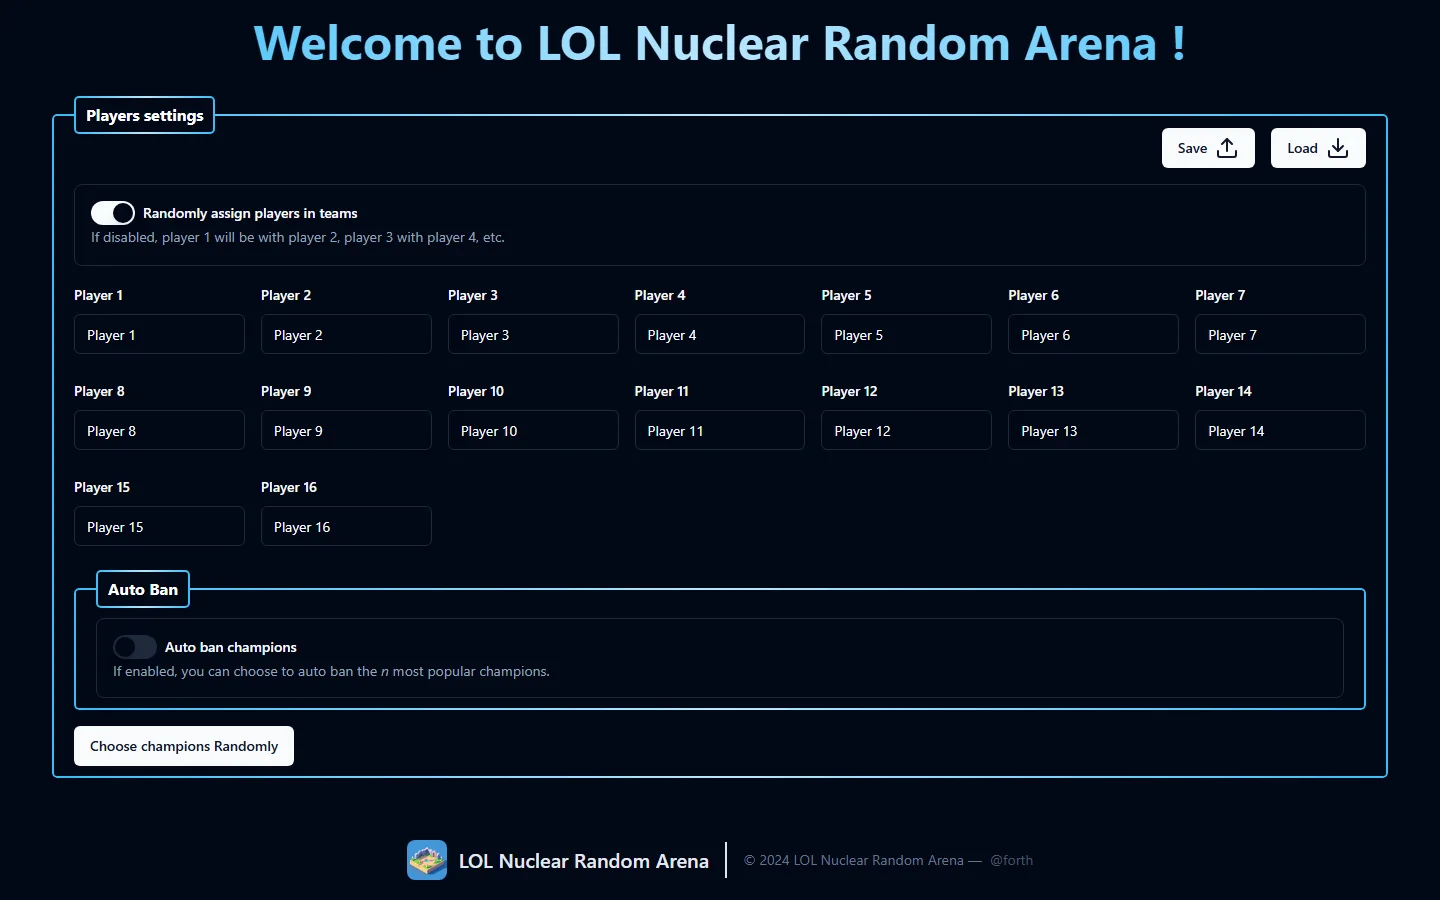
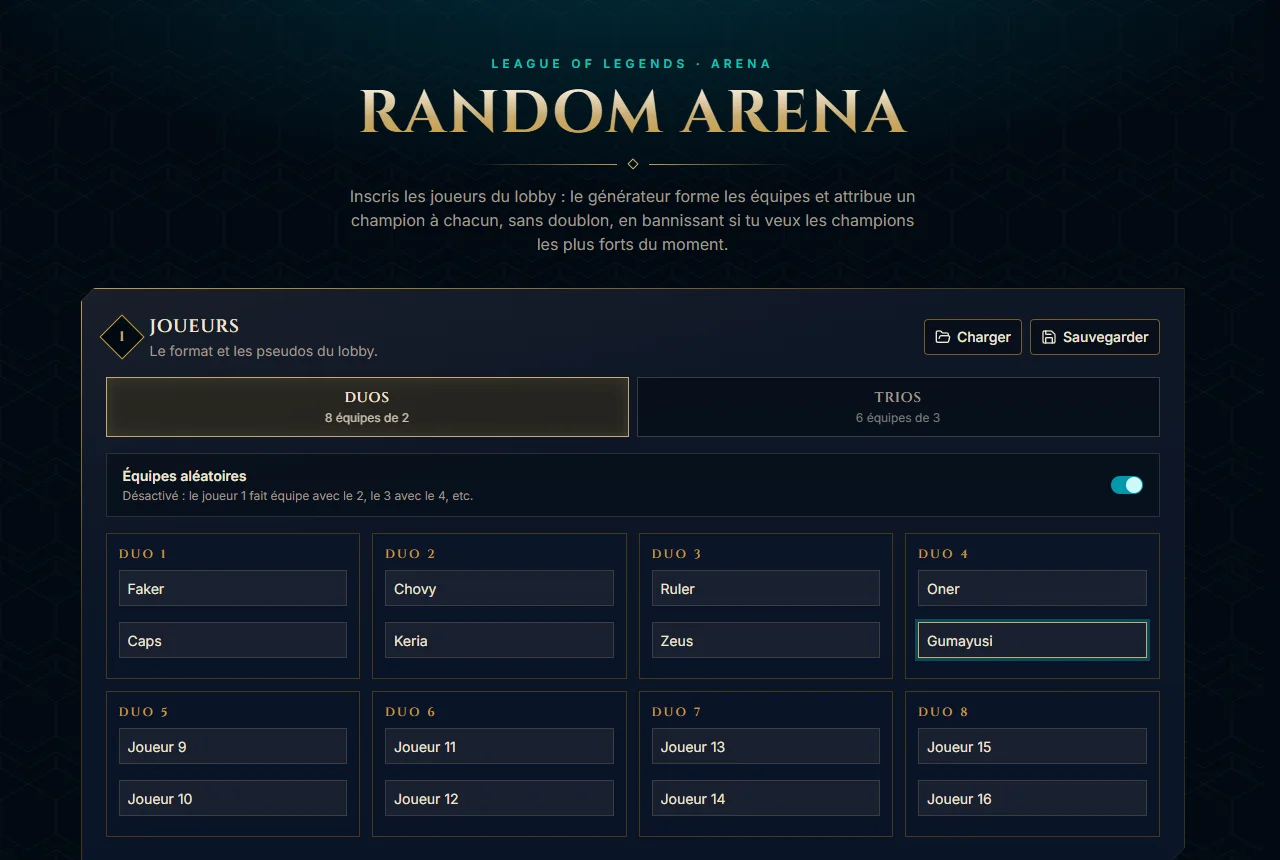
docs: refresh readme and screenshots for the redesign

diff --git a/README.md b/README.md
@@ -1,4 +1,4 @@
-# ⚔ LOL Nuclear Random Arena
+# ⚔ LoL Random Arena
 
 ![License](https://img.shields.io/github/license/forthtilliath/lol-random-arena?style=for-the-badge) [![SvelteKit](https://img.shields.io/badge/SvelteKit-FF3E00?style=for-the-badge&logo=svelte&logoColor=white)](https://kit.svelte.dev/) ![Tailwind CSS](https://img.shields.io/badge/Tailwind_CSS-38B2AC?style=for-the-badge&logo=tailwind-css&logoColor=white) ![TypeScript](https://img.shields.io/badge/-TypeScript-blue?logo=typescript&logoColor=white&style=for-the-badge) [![Zod](https://img.shields.io/badge/Zod-3E67B1?style=for-the-badge&logo=zod&logoColor=white)](https://zod.dev/)
 
@@ -6,27 +6,34 @@
 
 **🔗 Démo :** [lol-random-arena.vercel.app](https://lol-random-arena.vercel.app/)
 
-![Formulaire de configuration des joueurs et du ban automatique](docs/form.webp)
+![Formulaire : format Duos/Trios, pseudos des joueurs et bannissements](docs/form.webp)
 
 ## Fonctionnalités
 
-- 🎲 **Répartition aléatoire** des joueurs en équipes de 2 (ou par ordre d'inscription si le mode aléatoire est désactivé)
-- 🏆 **Génération aléatoire de champion** pour chaque joueur
-- 🚫 **Ban automatique** des champions les plus joués ou les mieux gagnants, avec un curseur pour choisir combien en bannir
-- 💾 **Sauvegarde/chargement** de la configuration des joueurs (noms, options) pour ne pas tout ressaisir à chaque partie
-- ⚡ Résultat instantané, sans rechargement de page (SvelteKit + form actions)
+- 👥 **Duos ou Trios** : 8 équipes de 2 ou 6 équipes de 3, comme les deux formats du mode Arena
+- 🎲 **Répartition aléatoire** des joueurs en équipes (ou par ordre d'inscription si le mode aléatoire est désactivé)
+- 🏆 **Un champion par joueur, sans doublon** dans le lobby, parmi les 173 champions du jeu
+- 🚫 **Bannissement automatique** des champions les plus joués, les plus gagnants ou un mix des deux, d'après les statistiques Arena actuelles d'[op.gg](https://www.op.gg/lol/modes/arena)
+- 🔗 **Lien de partage** du tirage, et bouton **Relancer** pour refaire un tirage avec la même configuration
+- 💾 **Sauvegarde/chargement** de la configuration (pseudos, format, bannissements) dans le navigateur
+- 📱 Interface en français, pensée pour le mobile comme pour le bureau
 
 ## Résultat
 
-![Équipes et champions générés aléatoirement, avec le portrait de chaque champion](docs/results.webp)
+![Équipes et champions tirés au sort, avec le portrait de chaque champion](docs/results.webp)
+
+## Thème « Hextech »
+
+L'interface reprend la palette du client League of Legends : fond noir hextech (`#010A13`), panneaux bleu nuit (`#0A1428`) à coins biseautés, liserés or (`#C8AA6E`, `#785A28`), accents bleu hextech (`#0AC8B9`) et titres en [Cinzel](https://fonts.google.com/specimen/Cinzel). Les tokens sont définis dans [`src/app.css`](src/app.css) et partagés à l'identique avec la version mobile [reactnative-lol-random-arena](https://github.com/Forthtilliath/reactnative-lol-random-arena).
 
 ## Stack technique
 
-- [SvelteKit](https://kit.svelte.dev/)
+- [SvelteKit](https://kit.svelte.dev/) (Svelte 5)
 - [TypeScript](https://www.typescriptlang.org/)
-- [Tailwind CSS](https://tailwindcss.com/) + [shadcn-svelte](https://www.shadcn-svelte.com/)
-- [Zod](https://zod.dev/) + [sveltekit-superforms](https://superforms.rocks/) — validation de formulaire côté client et serveur
-- [bits-ui](https://www.bits-ui.com/) — primitives accessibles (switch, dialog, select...)
+- [Tailwind CSS v4](https://tailwindcss.com/) + [shadcn-svelte](https://www.shadcn-svelte.com/)
+- [Zod](https://zod.dev/) + [sveltekit-superforms](https://superforms.rocks/) : validation du formulaire côté client et serveur
+- [bits-ui](https://www.bits-ui.com/) : primitives accessibles (switch, dialog, command…)
+- [Data Dragon](https://developer.riotgames.com/docs/lol#data-dragon) : liste des champions et portraits officiels
 
 ## Installation
 
@@ -46,15 +53,21 @@ bun run dev
 
 ### Scripts disponibles
 
-| Commande          | Description                           |
-| ----------------- | ------------------------------------- |
-| `bun run dev`     | Serveur de développement              |
-| `bun run build`   | Build de production                   |
-| `bun run preview` | Prévisualise le build de production   |
-| `bun run check`   | Vérification des types (svelte-check) |
-| `bun run lint`    | Lint (Prettier + ESLint)              |
-| `bun run format`  | Formate le code (Prettier)            |
+| Commande                 | Description                                                    |
+| ------------------------ | -------------------------------------------------------------- |
+| `bun run dev`            | Serveur de développement                                       |
+| `bun run build`          | Build de production                                            |
+| `bun run preview`        | Prévisualise le build de production                            |
+| `bun run check`          | Vérification des types (svelte-check)                          |
+| `bun run lint`           | Lint (Prettier + ESLint)                                       |
+| `bun run format`         | Formate le code (Prettier)                                     |
+| `bun run test`           | Tests unitaires (Vitest)                                       |
+| `bun run sync-champions` | Met à jour les champions et leurs portraits depuis Data Dragon |
+
+Après la sortie d'un nouveau champion, lance `bun run sync-champions` : le script régénère `src/lib/champions.ts` et télécharge les portraits manquants dans `static/champion/`.
 
 ## Licence
 
 Distribué sous licence [MIT](./LICENSE).
+
+LoL Random Arena est un projet de fan non affilié à Riot Games. League of Legends et les portraits des champions sont la propriété de Riot Games, Inc.
